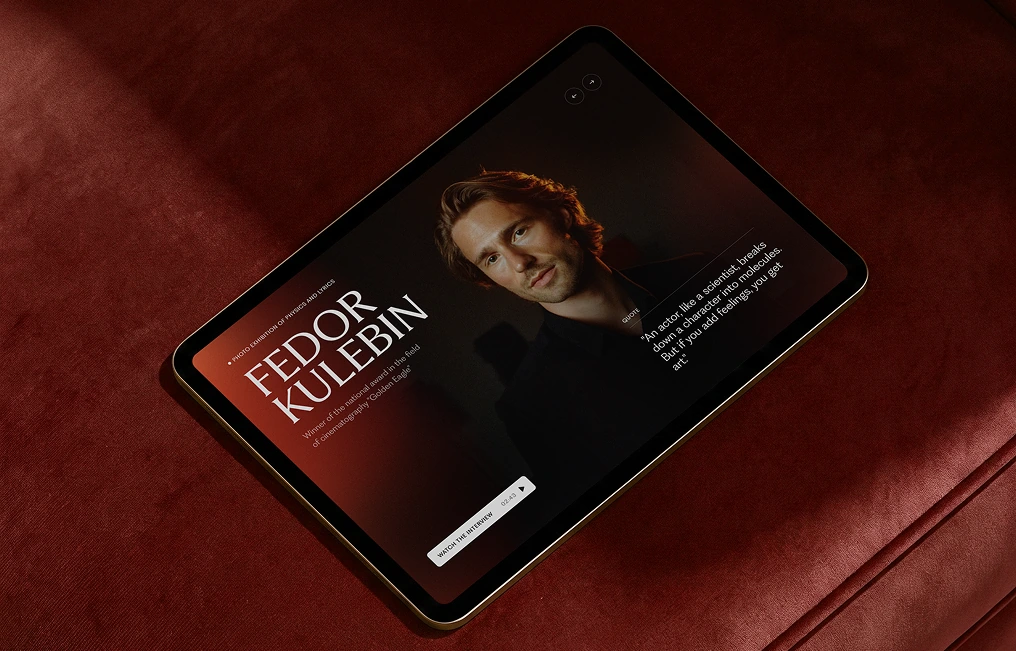
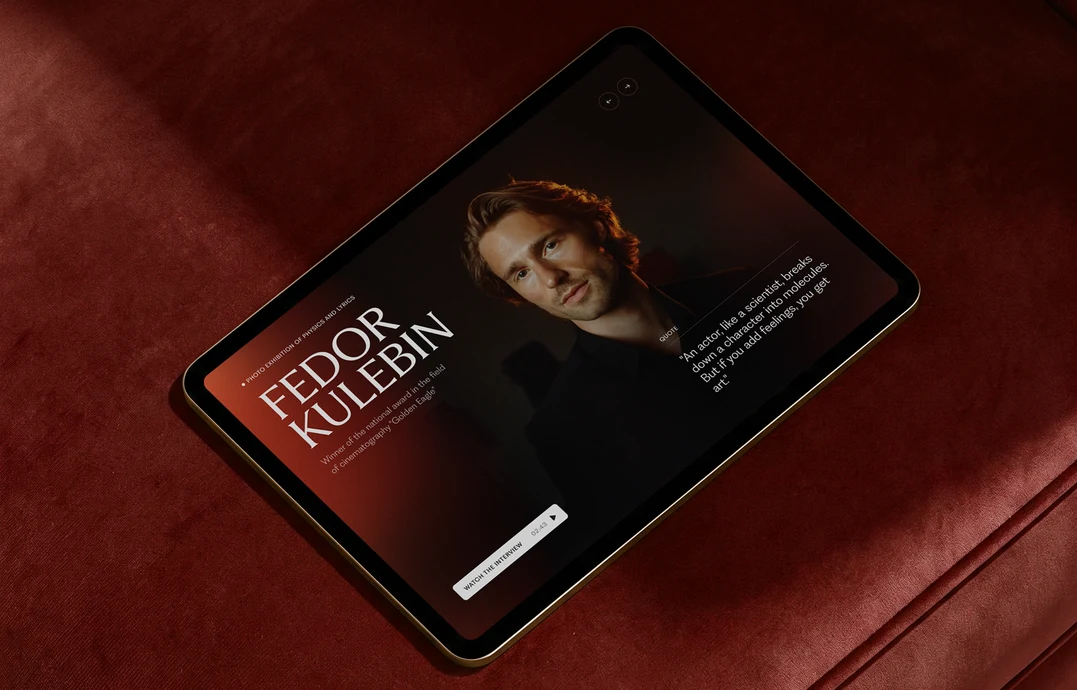
Foundation: 2x tablet mockup (Fedor Kulebin)
Claude-Session: https://claude.ai/code/session_01MeEtXt8ErEBGG7gb3jKyRE

diff --git a/index.html b/index.html
@@ -3227,7 +3227,7 @@
 
     <div class="case__media reveal" style="--mh:14.375rem"><img loading="lazy" src="images/foundation-18.webp" alt="Our values — Inspiration, Synergy, Openness" /><img loading="lazy" class="case__media-mobile" src="images/foundation-m18.webp" alt="Our values — Inspiration, Synergy, Openness" width="1077" height="690" /></div>
 
-    <div class="case__media reveal" style="--mh:14.375rem"><img loading="lazy" src="images/foundation-19.webp?v=2" alt="Branded tablet mockup — Fedor Kulebin" width="1016" height="682" /><img loading="lazy" class="case__media-mobile" src="images/foundation-m19.webp?v=2" alt="Branded tablet mockup — Fedor Kulebin" width="1016" height="651" /></div>
+    <div class="case__media reveal" style="--mh:14.375rem"><img loading="lazy" src="images/foundation-19.webp?v=3" alt="Branded tablet mockup — Fedor Kulebin" width="2032" height="1364" /><img loading="lazy" class="case__media-mobile" src="images/foundation-m19.webp?v=3" alt="Branded tablet mockup — Fedor Kulebin" width="1077" height="690" /></div>
 
     <div class="case__row reveal">
       <div class="case__col">
